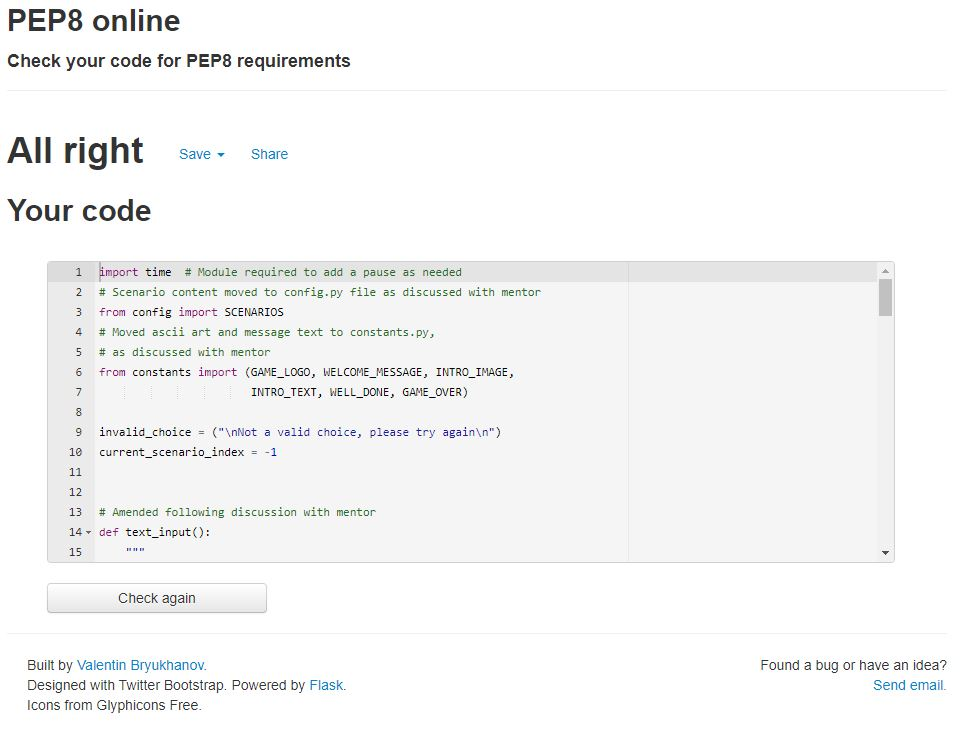
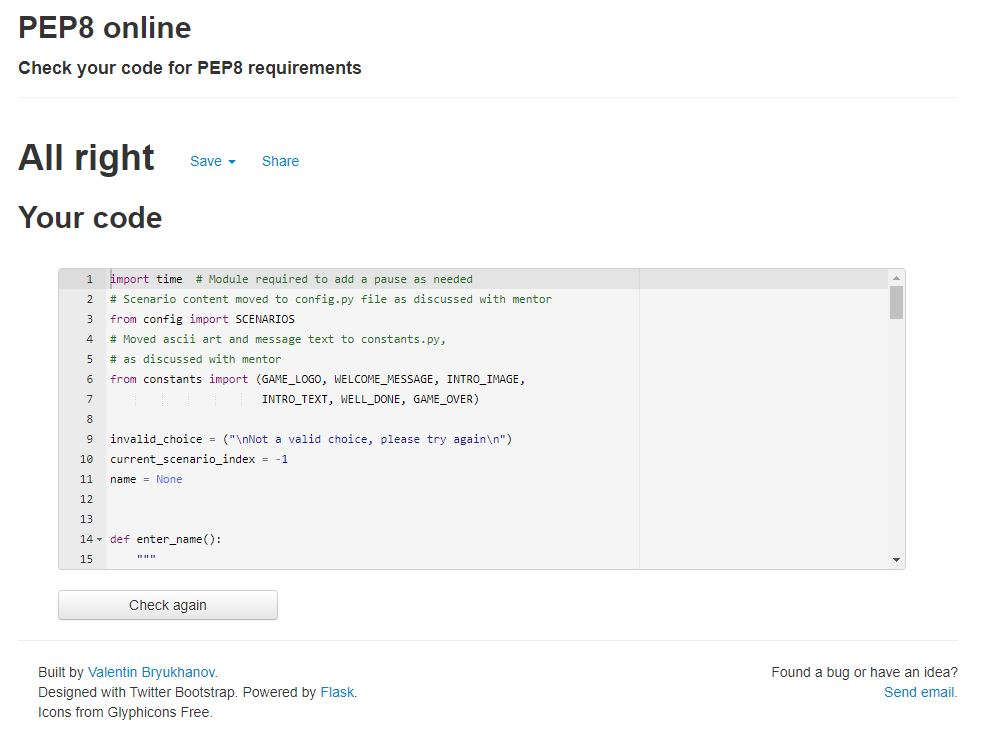
Update UX, testing and deployment sections of README

diff --git a/README.md b/README.md
@@ -10,18 +10,21 @@ I've designed the game to function like an interactive story, whereby users will
 
 The game has functions for the following:
 - To handle the game start
+- Input for a user name with validation
 - Text input with validation when having to make a choice
 - Loading of the next scenario
 - Displaying of current scenario content and evaluating the choice made
 - Handling a game over condition 
 - Handling game successful completion
-- Asking whether the user would like to play again 
+- Asking whether the user would like to play again and validating the choice made 
 
 As shown in the logic flow below, if the user makes the correct choice they progress onto the next scenario but if they don't, then a game over condition occurs. The user is then asked whether they'd like to try again. If the user successfully gets through all scenarios then a well done message is displayed which also asks whether they'd like to play again. 
 
 ![Image of flow diagram](https://raw.githubusercontent.com/domsq/project-driving-safely-game/main/screenshots/flow_diagram.JPG)
 
 As the game is command line based, there are no graphics or colour, etc present however I have inserted some ascii art to make the display a bit more visually pleasing for the user. 
+
+To tidy up the look of the run.py file, I moved the scenarios content and ASCII art and messages to the files config.py and constants.py respectively. This was a good suggestion made by my mentor. 
 
 User stories as follows:
 
@@ -83,10 +86,10 @@ Upon either a game over condition or successful game completion, the user is pre
 - HTML - Required for the emulated terminal as provided by Code Institute
 - CSS - Required for the emulated terminal as provided by Code Institute
 - JavaScript - Required for the emulated terminal as provided by Code Institute
-- Python - Language that the app is written in
+- Python - Language that the game is written in
 - Gitpod - IDE used for development, incorporates git version control
 - GitHub - Repository where code is kept and also git version control
-- Heroku - Platform through which app is deployed
+- Heroku - Platform through which the game is deployed
 - [fsymbols](https://fsymbols.com/text-art/) - Used for creation of ascii word art
 - [Text to ASCII Art Generator](http://patorjk.com/software/taag/#p=display&f=Graffiti&t=Type%20Something%20) - Used for creation of ascii word art
 - [Ascii Art converter](https://manytools.org/hacker-tools/convert-images-to-ascii-art/) - Used for creation of ascii art image
@@ -119,20 +122,44 @@ I tested that when presented with a choice in the game, the text input has to be
 
 The scenarios are loaded in turn as expected and getting through all of them successfully triggers a game completion condition. If a wrong choice is picked, the game over condition is triggered. 
 
+Upon either game over or game completion, you are prompted as to whether you'd like to play again. If "y" is selected, this restarts the game and if "n" is selected, this ends the program. If an invalid choice is made, you are prompted to choose an option until a valid choice is selected.
+
 ### Bugs 
 
 While creating my application, the following bugs popped up:<br>
 - Initially when setting up the logic to evaluate the user choices for the scenarios, I tried to use syntax such as "if choice == "a" or "A". This doesn't work, so I rather set input to be made lowercase prior to being evaluated.
 - Another issue I encountered was getting text to display correctly when in Heroku, without any wrapping of words being split part way through. This was corrected through carefully limiting how much text is shown per line.
 - When initially trying to reference the dictionary keys for the scenario objects, from within the show_scenario function, this wouldn't work due to my forgetting the required "[ ]" characters. Once this was corrected, the scenarios would then load as expected.
-- When creating and testing the play_again function, it didn't initially work due to the fact that it wasn't resetting the scenario index each time, so the value was getting out of sync. This was corrected through referencing the global variable for the scenario index and setting it accordingly.
+- When creating and testing the play_again function, it didn't initially work due to the fact that it wasn't resetting the scenario index each time, so the value was getting out of sync. This was corrected through referencing the global variable for the scenario index and setting it accordingly for a game restart.
 
 
 ### Validator Testing
 
+All three of the Python files (config.py, constants.py, run.py) show no errors or warnings when run through a PEP8 checker:
+
+- config.py:<br><br>
+![Image of config.py validation](https://raw.githubusercontent.com/domsq/project-driving-safely-game/main/screenshots/config_py_validation.JPG)<br><br>
+- constants.py:<br><br>
+![Image of constants.py validation](https://raw.githubusercontent.com/domsq/project-driving-safely-game/main/screenshots/constants_py_validation.JPG)<br><br>
+- run.py:<br><br>
+![Image of run.py validation](https://raw.githubusercontent.com/domsq/project-driving-safely-game/main/screenshots/run_py_validation.JPG)<br><br>
 
 ## Deployment
 
+My game was deployed via Heroku as follows:
+- From the terminal in Gitpod, type the following command: "pip3 freeze > requirements.txt"
+- Perform a git add, commit and push.
+- Navigate to https://dashboard.heroku.com/apps and login.
+- Select New > Create new app.
+- For app name type "driving-safely" and for region choose "Europe". Click "Create app".
+- Once the app has been created, select it from the dashboard and then navigate to Settings > Buildpacks.
+- Click "Add buildpack" and then add the following in turn: heroku/python ; heroku/nodejs.
+- Browse to the "Deploy" section.
+- For "Deployment method" select GitHub. If access hasn't already been configured, do this from Account settings > Applications > Third-party Services. 
+- Search for the required repository, in this case "project-driving-safely-game", then once found click "Connect".
+- Scroll down to "Automatic deploys", ensure the branch selected is "main" and then click "Enable Automatic Deploys".
+- Each time a push is made to the repository "project-driving-safely-game", Heroku deploys an updated version of the app.
+- To obtain the deployed link, browse to "Activity" from within the app on Heroku, select "View build log" for the most recent deployment version and find the link at the bottom of the output.  
 
 ## Credits 
 
